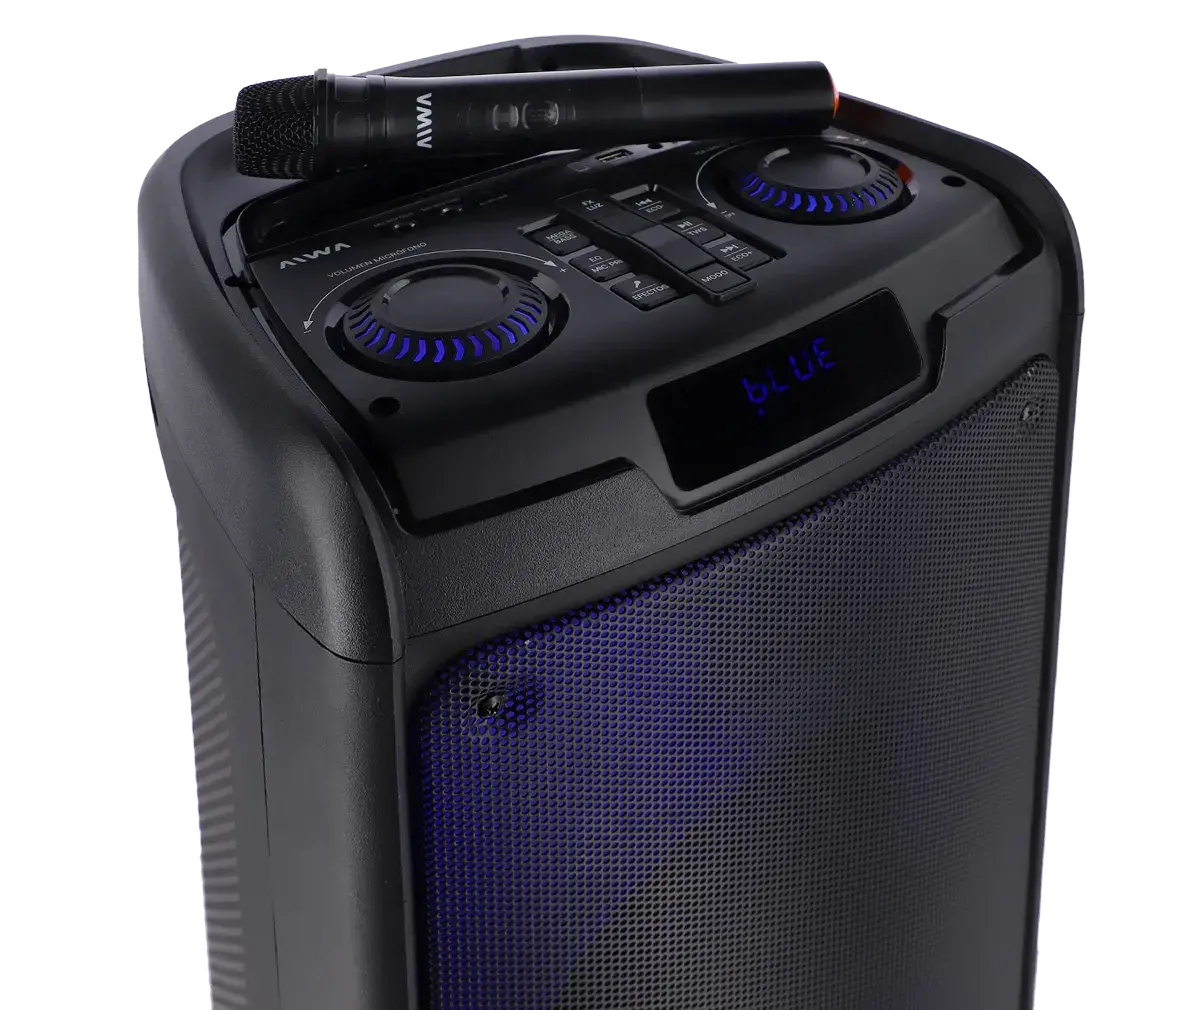
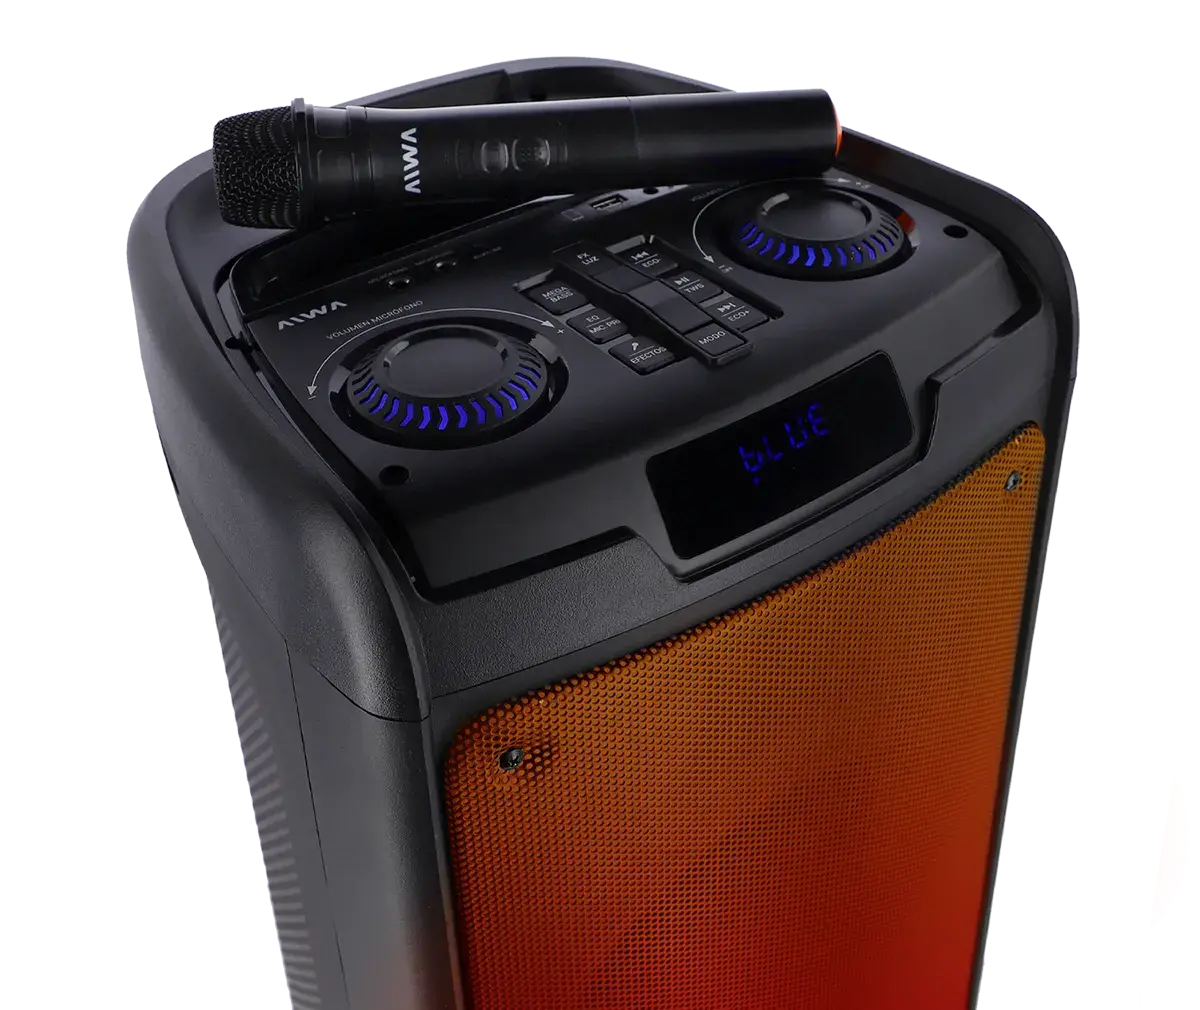
fixes

diff --git a/content/products.js b/content/products.js
@@ -5109,6 +5109,10 @@ export const products = [
         id: 3,
       },
       {
+        id: 20,
+        customImg: fileserver + '/banners/bateria2018.webp',
+      },
+      {
         id: 10,
         customImg: fileserver + '/banners/eq2018.webp',
         customDesc: '¡Personalizá tus temas como mas te guste! El botón de Ecualización te permite controlar a tu antojo los Agudos y Graves para darle un sonido auténtico a tus fiestas.'
@@ -5265,6 +5269,9 @@ export const products = [
         customImg: fileserver + '/banners/doblemic2.webp',
       },
       {
+        id: 20,
+      },
+      {
         id: 3,
       },
       {
@@ -5272,6 +5279,7 @@ export const products = [
         customImg: fileserver + '/banners/eq2050.webp',
         customDesc: '¡Personalizá tus temas como mas te guste! El botón de Ecualización te permite controlar a tu antojo los Agudos y Graves para darle un sonido auténtico a tus fiestas.'
       },
+
     ],
     shortDesc: 'Fiesta donde vayas',
     longDesc: "Una torre liviana, práctica y portatil, con un sonido potente. Sus deslumbrantes efectos de luces en forma de anillos le darán ese toque mágico a todos tus momentos.",
@@ -6057,8 +6065,13 @@ export const products = [
       },
       {
         id: 4,
-        customImg: fileserver + '/banners/horizontal604.webp',
+        customImg: fileserver + '/banners/fiestas604.webp',
       },
+      {
+        id: 6,
+        customImg: fileserver + '/banners/portatil604.webp',
+      },
+      { id: 19 },
       {
         id: 2,
         customImg: fileserver + '/banners/tws604.webp',
@@ -6206,10 +6219,14 @@ export const products = [
       '/products/AW-T806F/img/8.webp',
     ].map(e => fileserver + e),
     top: true,
-    360: false,
+    360: true,
     gen: "1º Generación",
     banners: [ // TO OVERWRITE PROPS MUST SET: customTitle, customDesc, customImg
-      { id: 1 },  
+      { 
+        id: 1,
+        customImg: fileserver + '/banners/microfonocable.webp',
+        customDesc: '¿Karaoke? ¡de una! Con el micrófono incluido podrás tener increíbles sesiones de Karaoke con tus amigos. Cambiá canciones usando el control remoto incluido. ¡Que la fiesta no pare!'
+      },  
       { id: 13 },
       {
         id: 9,
@@ -6217,6 +6234,10 @@ export const products = [
         customImg: fileserver + '/banners/efectos806.webp',
         customDesc: 'Presionando el botón "Luz" vas a pasar de Llama en llama para elegir la que mejor va con tu fiesta y con tu gente.',
         priority: true
+      },
+      {
+        id: 15,
+        customImg: fileserver + '/banners/panel806.webp',
       },
       {
         id: 2,
@@ -6248,24 +6269,24 @@ export const products = [
       { // Entrada Mic y Guit
         id: 21,
       },
-      { // Entrada Auxiliar
-        id: 17,
+      { // USB + SD
+        id: 37,
       },
       { // Batería Recargable
         id: 7,
         value: 'Interna Recargable 7.4V / 3600mAh'
       },
-      { // Reguladores
-        id: 22,
+      { // Reguladores de todo
+        id: 40,
       },
-      { // Reg Eco y Vol
-        id: 28,
+      { // Cuerpo Madera
+        id: 18,
       },
-      { // Memoria SD
-        id: 26,
+      { // Radio
+        id: 25,
       },
-      { // REC
-        id: 34,
+      { // Tweeter
+        id: 35,
       }
     ],
     features: [
@@ -6305,9 +6326,9 @@ export const products = [
         id: 8,
         value: "Guitarra, USB, Micro SD, Auxiliar y Micrófono",
       },
-      { // Display
-        id: 6,
-        value: "Si",
+      { // Cuerpo madera
+        id: 24,
+        value: "Madera",
       },
       { // Otras características
         id: 15,
@@ -6329,6 +6350,10 @@ export const products = [
         id: 19,
         value: "7798111353995",
       },
+      { // Efectos de luces
+        id: 23,
+        value: "De luces x6"
+      }
     ],
     includes: [
       2, // Mic cable
@@ -6355,20 +6380,26 @@ export const products = [
       '/products/AW-T806F-SA/img/5.webp',
       '/products/AW-T806F-SA/img/6.webp',
       '/products/AW-T806F-SA/img/7.webp',
-      '/products/AW-T806F-SA/img/8.webp',
     ].map(e => fileserver + e),
     top: true,
-    360: false,
+    360: true,
     gen: "2º Generación",
     banners: [ // TO OVERWRITE PROPS MUST SET: customTitle, customDesc, customImg
       {
         id: 13,
       },
       {
+        id: 15,
+        customImg: fileserver + '/banners/panel806.webp',
+      },
+      {
         id: 9,
         customTitle: 'Elegí como hacer brillar tu fuego',
         customImg: fileserver + '/banners/efectos806.webp',
         customDesc: 'Presionando el botón "Luz" vas a pasar de Llama en llama para elegir la que mejor va con tu fiesta y con tu gente.'
+      },
+      {
+        id: 21,
       },
       {
         id: 2,
@@ -6400,8 +6431,8 @@ export const products = [
       { // Entrada Mic y Guit
         id: 21,
       },
-      { // Entrada Auxiliar
-        id: 17,
+      { // Radio
+        id: 25,
       },
       { // Batería Recargable
         id: 7,
@@ -6413,11 +6444,11 @@ export const products = [
       { // Reg Eco y Vol
         id: 28,
       },
-      { // Memoria SD
-        id: 26,
+      { // Memoria SD + USB
+        id: 37,
       },
-      { // REC
-        id: 34,
+      { // Tweeter
+        id: 35,
       }
     ],
     features: [
@@ -6437,9 +6468,9 @@ export const products = [
         id: 10,
         value: "Interna Recargable 7.4V / 3600mAh",
       },
-      { // Luces
-        id: 12,
-        value: "En Todo el Panel Frontal",
+      { // Efectos
+        id: 23,
+        value: "De luces x6",
       },
       { // Conectividad
         id: 9,
@@ -6479,8 +6510,12 @@ export const products = [
       },
       { // EAN
         id: 19,
-        value: "7798111353995",
+        value: "7798111354114",
       },
+      {
+        id: 24,
+        value: "Madera"
+      }
     ],
     includes: [
       3, // Aux
@@ -6506,6 +6541,7 @@ export const products = [
       '/products/AW-T806F-PB/img/6.webp',
       '/products/AW-T806F-PB/img/7.webp',
       '/products/AW-T806F-PB/img/8.webp',
+      '/products/AW-T806F-PB/img/9.webp',
     ].map(e => fileserver + e),
     top: true,
     360: true,
@@ -6519,6 +6555,9 @@ export const products = [
         customTitle: 'Elegí como hacer brillar tu fuego',
         customImg: fileserver + '/banners/efectos806.webp',
         customDesc: 'Presionando el botón "Luz" vas a pasar de Llama en llama para elegir la que mejor va con tu fiesta y con tu gente.'
+      },
+      {
+        id: 21,
       },
       {
         id: 2,
@@ -6544,6 +6583,7 @@ export const products = [
       },
       { // Efectos de luces
         id: 6,
+        value: 6
       },
       { // Bluetooth
         id: 12,
@@ -6567,8 +6607,9 @@ export const products = [
       { // Reg Eco y Vol
         id: 28,
       },
-      { // Memoria SD
-        id: 26,
+      { // Tweeter
+        id: 35,
+        value: '1 de 1"'
       }
     ],
     features: [
@@ -6589,8 +6630,8 @@ export const products = [
         value: "Interna Recargable 7.4V / 3600mAh",
       },
       { // Luces
-        id: 12,
-        value: "En Todo el Panel Frontal",
+        id: 23,
+        value: "De luces x6",
       },
       { // Conectividad
         id: 9,
@@ -6608,9 +6649,9 @@ export const products = [
         id: 8,
         value: "Guitarra, Auxiliar y Micrófono",
       },
-      { // Display
-        id: 6,
-        value: "Si",
+      { // Cuerpo Madera
+        id: 24,
+        value: "Madera",
       },
       { // Otras características
         id: 15,
@@ -6632,6 +6673,10 @@ export const products = [
         id: 19,
         value: "7798111354466",
       },
+      {
+        id: 6,
+        value: 'Si'
+      }
     ],
     includes: [
       3, // Aux

diff --git a/content/featuredFeatures.js b/content/featuredFeatures.js
@@ -83,6 +83,9 @@ const featuredFeatures = [ // Características destacadas de productos ORDENADAS
   { id: 23, name: 'Regulador de Eco', icon: micreg,
     desc: 'Controlá a gusto los niveles de Eco del micrófono.'
   },
+  { id: 40, name: 'Reguladores', icon: reg,
+    desc: 'Controlá a gusto los niveles de Volumen, Graves, Agudos, Volumen del micrófono, Eco del micrófono y Volumen de Guitarra.'
+  },
   { 
     id: 6, name: 'Efectos de Luces', icon: fx,
     /* desc:'Deslumbrantes luces que se dedican a brillar alrededor de los woofer y además con diferentes efectos para que puedas elegir cual acompaña mejor el momento que estas disfrutando.', */
@@ -122,7 +125,7 @@ const featuredFeatures = [ // Características destacadas de productos ORDENADAS
     desc: 'Conectá un micrófono y activá el karaoke en tu casa.'
   },
   { id: 21, name: 'Entrada para Micrófono y Guitarra', icon: guitmic,
-    desc: '¡Tocá donde quieras! Posee entradas para micrófono y guitarra. No necesitás nada más para tu evento.'
+    desc: '¡Tocá donde quieras! Posee entradas para micrófono y guitarra con reguladores independientes. No necesitás nada más para tu evento.'
   },
   { id: 27, name: '2 Entradas para Micrófono', icon: mic,
     desc: 'Gracias a la de Entrada de Micrófono con cable, tenés la posibilidad de conectar hasta dos micrófonos a la vez y convertir tu fiesta en un verdadero karaoke para divertirte durante toda la noche.'

diff --git a/content/banners.js b/content/banners.js
@@ -99,6 +99,12 @@ const banners = [
     img: fileserver + '/banners/reguladores600sa.webp'
   },
   {
+    id: 21,
+    title: `Reguladores independientes`, // + Guitarra
+    desc: 'Regulá de forma independiente el volumen de tu guitarra, del micrófono y el eco del micrófono.',
+    img: fileserver + '/banners/reg806.webp'
+  },
+  {
     id: 17,
     title: `No te quedes sin batería`,
     desc: 'Podés usar el cable incluido para cargar el parlante, o el cargador de tu celular (puerto tipo MicroUSB).',
@@ -110,6 +116,18 @@ const banners = [
     desc: '¡Armá tu Karaoke! Incluye micrófono con cable, y control remoto para que puedas gestionar tu música a distancia.',
     img: fileserver + '/banners/micycontrol.webp'
   },
+  {
+    id: 19,
+    title: `Entrada para Micrófono`,
+    desc: '¡Armá tu Karaoke! Posee entrada para micrófono, conectá uno ¡y disfrutá cantando toda la noche con tus amigos!.',
+    img: fileserver + '/banners/mic604.webp'
+  },
+  {
+    id: 20,
+    title: `Batería de larga duración`,
+    desc: `Increíble batería de larga duración para que nunca te quedes sin escuchar la música que más te gusta.`,
+    img: fileserver + '/banners/bateria2050.webp'
+  }
 ]
 
 export default banners

diff --git a/content/features.js b/content/features.js
@@ -23,6 +23,9 @@ const features = [ // Características de productos
   { 
     id: 12, name: 'Luces',
   },
+  {
+    id: 23, name: 'Efectos'
+  },
   { 
     id: 6, name: 'Display',
   },
@@ -37,6 +40,9 @@ const features = [ // Características de productos
   },
   { 
     id: 11, name: 'Duración de Batería',
+  },
+  { 
+    id: 24, name: 'Cuerpo',
   },
   { 
     id: 15, name: 'Otras Características',

diff --git a/styles/_productbanners.scss b/styles/_productbanners.scss
@@ -24,7 +24,7 @@ section.product-banners {
   &[line='flama']{
     // background: linear-gradient(0deg, black, rgb(68, 68, 68));
     background: rgb(233,0,0);
-    background: linear-gradient(0deg, rgba(233,0,0,1) 0%, rgba(255,192,0,1) 100%);
+    background: linear-gradient(0deg, rgba(233,0,0,1) 0%, rgb(255, 153, 0) 100%);
   }
   div.product-banner {
     border-radius: 5px;
